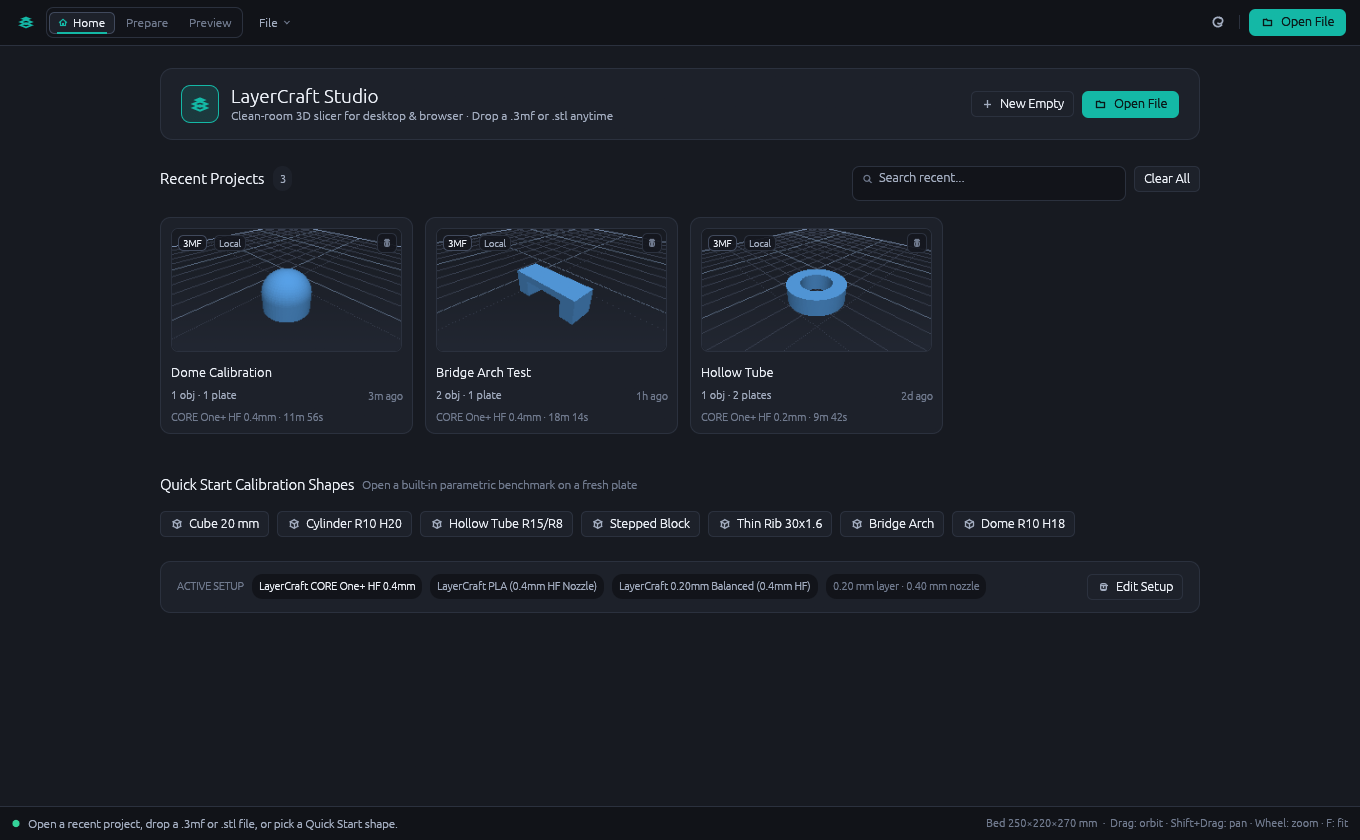
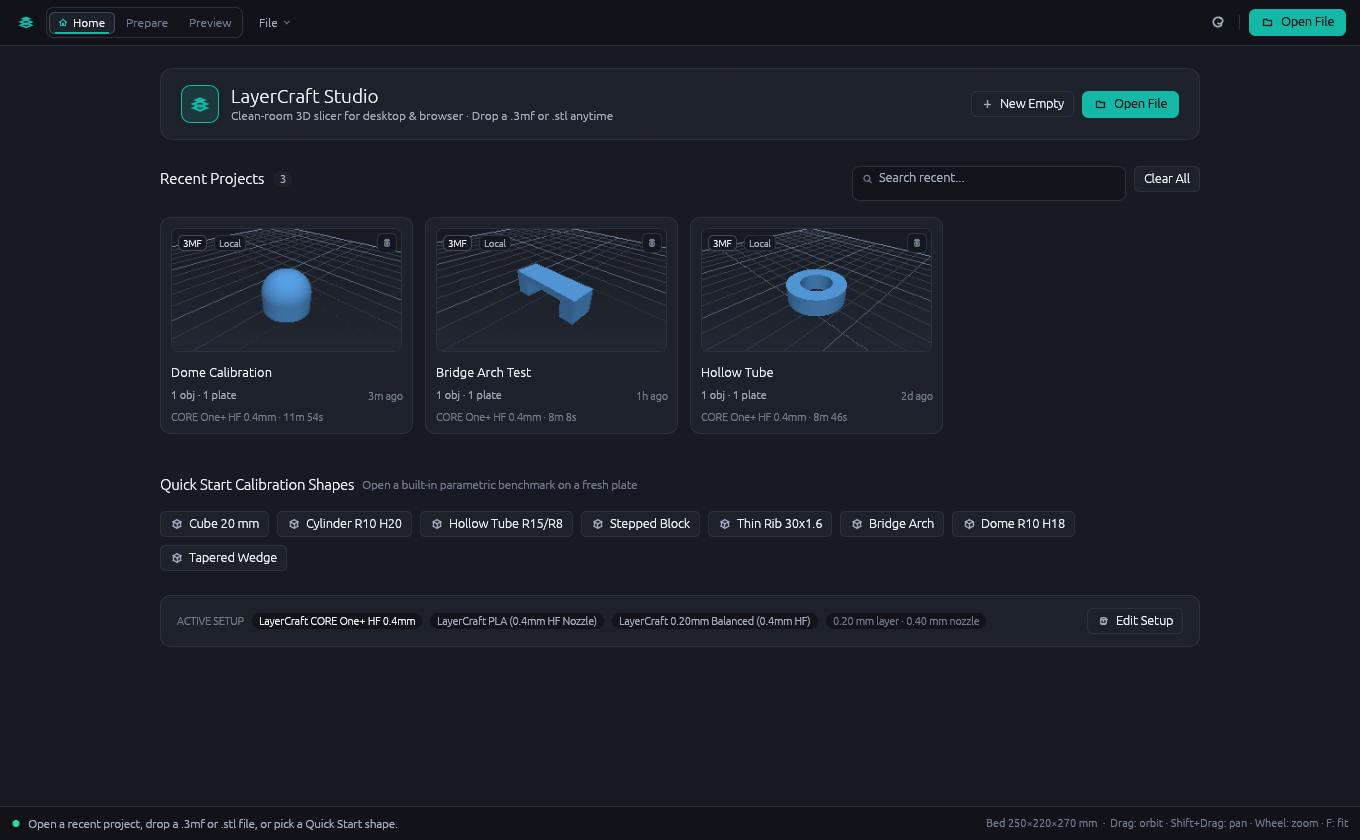
docs: log CORE One+ Print #5, refresh Studio screenshots, and update README

diff --git a/README.md b/README.md
@@ -28,20 +28,20 @@
 </p>
 
 <p align="center">
-  <img src="docs/screenshots/preview-dark.png" alt="LayerCraft Modern Studio Canvas — 90-layer sliced dome with 4x MSAA viewport, floating ViewCube, unified playback & view dock, vertical layer scrubber, filtered feature legend, and right inspector" />
+  <img src="docs/screenshots/preview-dark.png" alt="LayerCraft Modern Studio Canvas — 90-layer sliced dome with 4x MSAA viewport, floating ViewCube with zoom controls, unified playback & view dock, vertical layer scrubber, filtered feature legend, and right inspector" />
 </p>
 
 <p align="center">
-  <em>LayerCraft Modern Studio Canvas (Dark Studio theme, 4× MSAA <code>wgpu</code> viewport): a 90-layer sliced dome inspected with GPU-instanced rounded beads, floating ViewCube navigation, filtered Feature Legend + <code>Color by</code> modes, unified move-playback dock, vertical layer scrubber, and right-docked <code>Objects | Settings | Printer</code> inspector.</em>
+  <em>LayerCraft Modern Studio Canvas (Dark Studio theme, 4× MSAA <code>wgpu</code> viewport): a 90-layer sliced dome inspected with GPU-instanced rounded beads, floating ViewCube navigation with zoom controls, filtered Feature Legend + <code>Color by</code> modes, unified move-playback dock, vertical layer scrubber, and right-docked <code>Objects | Settings | Printer</code> inspector.</em>
 </p>
 
 | Home — Recent Projects Hub | Dark Studio — Prepare |
 |---|---|
 | ![Home Recent Projects](docs/screenshots/home-dark.png) | ![Dark Studio Prepare](docs/screenshots/prepare-dark.png) |
-| Dedicated startup hub with searchable 3D plate thumbnails (desktop JSON + WASM IndexedDB cache), Quick Start shapes, and Active Setup summary. | Sleek 44px header with compact Project/Plate selector, left floating tool rail, 4× MSAA build plate canvas, and collapsible Outliner & Transform inspector. |
+| Dedicated startup hub with searchable 3D plate thumbnails (desktop JSON + WASM IndexedDB cache), 8 Quick Start calibration shapes (including Tapered Wedge), and Active Setup summary. | Sleek 44px header with compact Project/Plate selector, left floating tool rail, 4× MSAA build plate canvas with ViewCube zoom controls, and collapsible Outliner & Transform inspector. |
 
 <p align="center">
-  <img src="docs/screenshots/preview-light.png" alt="LayerCraft Light Drafting Preview — 90-layer sliced dome with translucent HUD overlays and right inspector" />
+  <img src="docs/screenshots/preview-light.png" alt="LayerCraft Light Drafting Preview — 90-layer sliced dome with ViewCube zoom controls, translucent HUD overlays, and right inspector" />
 </p>
 
 <p align="center">
@@ -111,15 +111,15 @@ Full MCP setup, Live Studio flags (`--connect`, `--standalone`, `--socket`), par
 
 Everything below runs through the same pure-Rust engine across the desktop app, browser app, headless CLI, and MCP server:
 
-- **Fixed-Point `i64` Nanometer Slicing & High-Poly Parallel Engine:** Exact Z-plane triangle slicing, classic perimeter offsetting, Voronoi medial-axis **Arachne** variable-width walls (`layercraft-clip` + `layercraft-slice`), Z-interval triangle bucketing, spatial `MaskClipIndex`, and deterministic multi-threaded desktop slicing + browser Web Worker execution.
+- **Fixed-Point `i64` Nanometer Slicing & High-Poly Parallel Engine:** Exact Z-plane triangle slicing, classic perimeter offsetting with wall-anchored thin gap fill, hardened Voronoi medial-axis **Arachne** variable-width wall transitions (`layercraft-clip` + `layercraft-slice`), Z-interval triangle bucketing, spatial `MaskClipIndex`, and deterministic multi-threaded desktop slicing + content-hashed browser Web Worker execution.
 - **Surfaces, Per-Object Slicing & Motion Finish:** Monotonic/concentric top and bottom skins, Rectilinear, Grid, 3D Gyroid, and 3D Cubic infill, thin gap fill, per-object overrides with `EXCLUDE_OBJECT`/`M486` cancel-object and sequential `ByObject` clearance checks, top-surface low-flow monotonic ironing, outer-wall ramped scarf seams, progressive overhang slowdown, mid-layer fan modulation, scheduled per-Z pause/`M600`/custom G-code events, and `G2`/`G3` circular arc fitting.
-- **Bridges, Overhangs & Supports:** Anchored bridge orientation and cooling/flow tuning, overhang wall detection and slowdown, **Grid** and **Snug** automatic supports, and model-avoiding branching **Organic Tree** supports with hollow trunks, dense interface layers, and build-plate-only routing.
+- **Bridges, Overhangs & Supports:** Anchored bridge orientation and cooling/flow tuning, overhang wall detection and slowdown, **Grid** and **Snug** automatic supports, and model-avoiding branching **Organic Tree** supports with hollow trunks, overhang corner seeding, continuous dense interface canopies, and build-plate-only routing.
 - **Adaptive Layers & 3D Modifier Volumes:** Curvature-driven adaptive layer heights (`0.08–0.28 mm` and custom schedules), explicit Z height-range bands, physical shell thicknesses, and primitive (`box`/`cylinder`) or arbitrary STL/3MF `Modifier`, `SupportBlocker`, `SupportEnforcer`, and `NegativePart` volumes.
 - **Multi-Plate `.3mf` Projects, Mesh Repair & DFM Safety:** Full multi-part & multi-plate `.3mf` project import/export, bounded undo/redo history, deterministic STL/3MF mesh repair (`repair_mesh` welding, manifold orientation, and hole filling), live out-of-bounds/overlap plate warnings, and Printability / DFM diagnostics with one-click fixes.
-- **Binary G-code (`.bgcode`), Profiles & Direct LAN Upload:** `Klipper`, `Marlin`, and Prusa `MarlinBuddy` emitters with `.bgcode` v1 (Heatshrink/Deflate + PNG/QOI xLCD thumbnails), volumetric flow capping, pressure/linear advance, per-role acceleration, chamber heating, `M73` progress, and `{if}/{elsif}/{else}` macro templates. Includes Prusa CORE One+ HF (`0.2mm`/`0.4mm` + PLA/PETG/ASA/TPU 95A) & generic starter presets, Orca/Bambu JSON profile inheritance, custom user preset saving, and direct LAN upload to `PrusaLink`, `Prusa Connect Local`, `OctoPrint`, and `Moonraker` with OS keychain credential storage.
-- **Modern Studio Canvas UI, Recent Projects Hub & Browser WASM:** Native `eframe` + `4× MSAA` `wgpu` studio featuring a startup **Home** hub with searchable 3D plate thumbnails (`recent_projects.json` on desktop, `localStorage` + IndexedDB in WASM), a 44px top workspace bar, floating `Prepare` tool rail, right-docked searchable `Objects | Settings | Printer` inspector, 7 `Color by` Preview modes, synchronized virtualized G-code viewer, intra-layer move playback scrubber with 3D nozzle marker, and responsive browser WASM app (`apps/layercraft-web`).
+- **Binary G-code (`.bgcode`), Profiles & Direct LAN Upload:** `Klipper`, `Marlin`, and Prusa `MarlinBuddy` emitters with `.bgcode` v1 (Heatshrink/Deflate + PNG/QOI xLCD thumbnails), volumetric flow capping, pressure/linear advance, per-role acceleration, chamber heating, `M73` progress, and `{if}/{elsif}/{else}` macro templates. Includes Prusa CORE One+ HF (`0.2mm`/`0.4mm` + PLA/PETG/ASA/TPU 95A; `5/6` physical validation prints logged in [docs/core-one-signoff.md](docs/core-one-signoff.md)) & generic starter presets, Orca/Bambu JSON profile inheritance, custom user preset saving, and direct LAN upload to `PrusaLink`, `Prusa Connect Local`, `OctoPrint`, and `Moonraker` with OS keychain credential storage.
+- **Modern Studio Canvas UI, Recent Projects Hub & Browser WASM:** Native `eframe` + `4× MSAA` `wgpu` studio featuring a startup **Home** hub with searchable 3D plate thumbnails (`recent_projects.json` on desktop, `localStorage` + IndexedDB in WASM) and 8 built-in Quick Start calibration shapes (including **Tapered Wedge**), a 44px top workspace bar, floating `Prepare` tool rail, ViewCube zoom controls (`-`/`+`), right-docked searchable `Objects | Settings | Printer` inspector, 7 `Color by` Preview modes, synchronized virtualized G-code viewer, intra-layer move playback scrubber with 3D nozzle marker, and responsive desktop + mobile/narrow-screen drawer layout in `apps/layercraft-web`.
 
-See [docs/architecture.md](docs/architecture.md) for crate structure, [docs/core-one-signoff.md](docs/core-one-signoff.md) for the Prusa CORE One+ hardware validation checklist, and [ROADMAP.md](ROADMAP.md) for completed phases (`0`–`6D`) and post-v1.0 items.
+See [docs/architecture.md](docs/architecture.md) for crate structure, [docs/core-one-signoff.md](docs/core-one-signoff.md) for the Prusa CORE One+ hardware validation checklist (`5/6` logged), and [ROADMAP.md](ROADMAP.md) for completed phases (`0`–`6D`) and post-v1.0 items.
 
 ---
 

diff --git a/docs/core-one-signoff.md b/docs/core-one-signoff.md
@@ -72,11 +72,11 @@ Confirm printer LAN connectivity (`PrusaLink` or `Prusa Connect Local`) before s
 
 ### 5. Surface & Motion Finish (Scarf Seam + Ironing + G2/G3 Arcs + PA)
 - **Geometry:** Cylinder (`SampleShape::Cylinder`) with `scarf_seam.enabled = true`, `ironing.mode = "topmost_surface"`, `arc_fitting = true`
-- **Presets:** `LayerCraft CORE One+ HF 0.4mm` + `LayerCraft PLA (0.4mm HF Nozzle)` + `LayerCraft 0.20mm Balanced (0.4mm HF)`
+- **Presets:** `LayerCraft CORE One+ HF 0.4mm` + `LayerCraft PETG (0.4mm HF Nozzle)` (tested physically with loaded PETG HF spool; `LayerCraft PLA (0.4mm HF Nozzle)` still pending) + `LayerCraft 0.20mm Balanced (0.4mm HF)`
 - **Inspect on hardware:**
-  - [ ] Outer vertical seam step is visibly reduced by the Z/E-ramped scarf overlap
-  - [ ] Cylindrical walls move smoothly via `G2`/`G3` arcs with crisp corners/PA (`M572`) and no stuttering
-  - [ ] Top circular cap shows uniform glossy low-flow ironed finish with clean perimeter transition
+  - [ ] Outer vertical seam step is visibly reduced by the Z/E-ramped scarf overlap (follow-up needed: clean cylinder Ø measured `19.98–19.99 mm`, but across the scarf seam measured `20.18 mm` (`+0.18 mm` vertical ridge); root cause identified in G-code: inner-wall seam stacked directly behind outer-wall scarf start at `(125.000, 119.367)` with zero retract before the dead-stop `G0 Z(z_base + 0.02)` plunge + `start_height_ratio = 0.10` / `flow_ratio = 1.0`)
+  - [x] Cylindrical walls move smoothly via `G2`/`G3` arcs with crisp corners/PA (`M572`) and no stuttering (verified: `19.98–19.99 mm` clean Ø vs `20.00 mm` nom, `20.04 mm` height vs `20.00 mm` nom, smooth glossy walls, `3,199` arc moves)
+  - [ ] Top circular cap shows uniform glossy low-flow ironed finish with clean perimeter transition (follow-up needed: zero travel scars during monotonic ironing, top half smoothed well, lower half showed slight tearing/pitting from dry-ironing PETG HF at PLA-oriented `10%` flow / `30 mm/s` + `0.21 mm` inset overlapping outer perimeter)
 
 ### 6. Engineering Filaments & Multi-Object Cancel (`ASA`, `TPU 95A`, `M486`)
 - **ASA Test (`LayerCraft ASA (0.4mm HF Nozzle)`):**
@@ -96,5 +96,5 @@ Confirm printer LAN connectivity (`PrusaLink` or `Prusa Connect Local`) before s
 | 2 | BridgeArch (`PETG HF`, `0.20 Balanced`) | `8m 9s` | `16m 35s` | `+8m 26s (startup)` | `11.03 mm` height (nom `11.00`), `3.57 mm` mid-span deck (nom `3.00`); `PETG 1g`, chamber `34°C`; startup overhead matches Print #1 (`+8m 28s`) within 2 s |
 | 3 | C-Bracket (`PETG HF`, Tree Supports) | `12m 29s` | `20m 45s` | `+8m 16s (startup)` | `PETG 3g`, chamber `35°C`; continuous interface canopy & corner seeding `6705742`; clean breakaway & crisp 90° corners |
 | 4 | TaperedWedge (`PETG HF`, Arachne) | `5m 34s` | `13m 37s` | `+8m 3s (startup)` | `35.78 mm` len (nom `36.00`), `0.49 mm` tip; `PETG 1g`, chamber `37°C`; gap-free `4→3→2→1` transitions after `aae97eb` |
-| 5 | Cylinder (`PLA HF`, Scarf + Ironing + Arcs) | `__m __s` | `__m __s` | `___%` | |
+| 5 | Cylinder (`PETG HF`, Scarf + Ironing + Arcs) | `17m 10s` | `25m 18s` | `+8m 8s (startup)` | `20.04 mm` H, `19.98–19.99 mm` clean Ø (`G2/G3` arcs & PA clean), `20.18 mm` Ø across scarf ridge (`+0.18 mm`), `PETG 3g`, chamber `37°C`; scarf start plunge & PETG ironing flow flagged for tuning |
 | 6 | Multi-Part / ASA / TPU Check | `__m __s` | `__m __s` | `___%` | |
